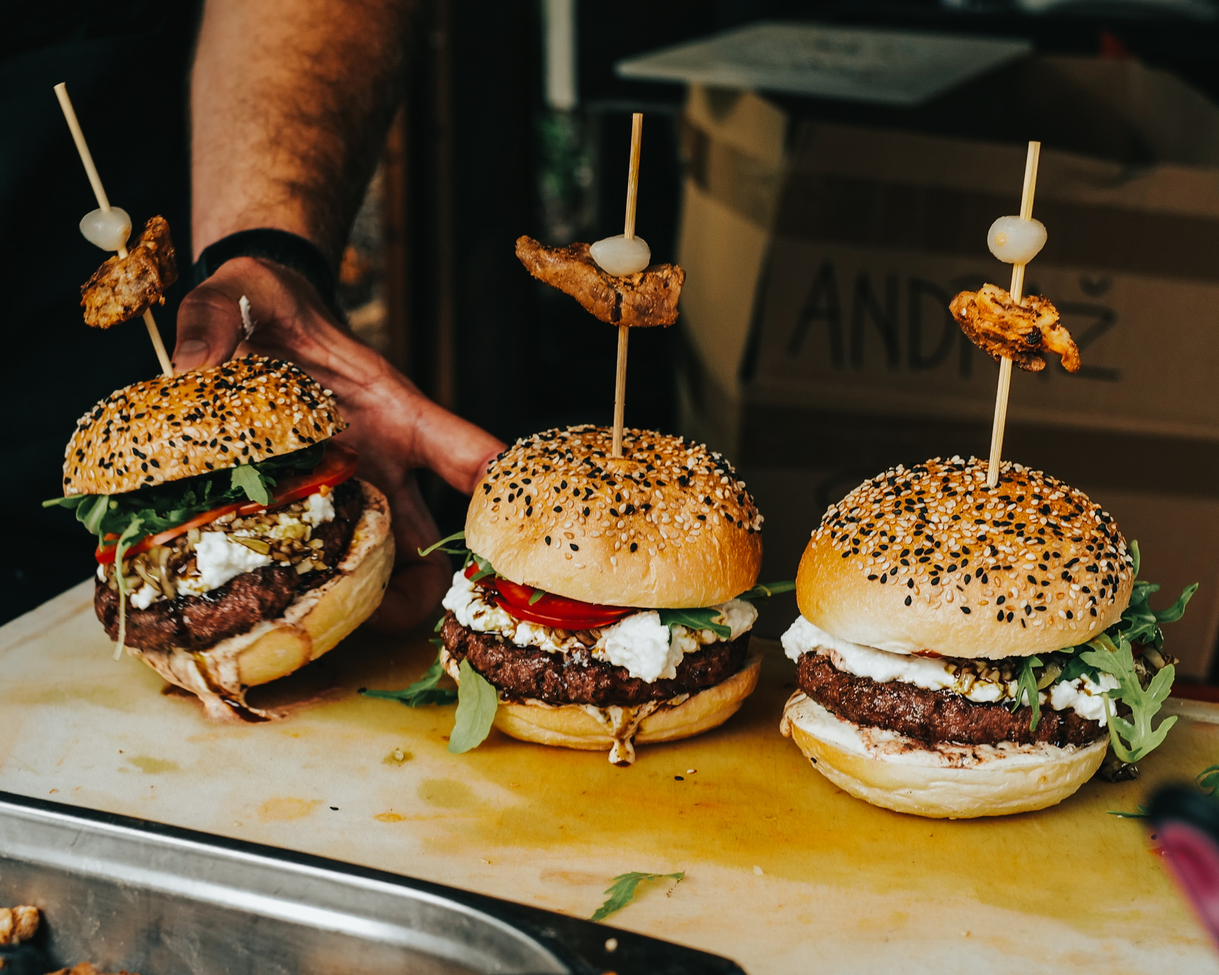
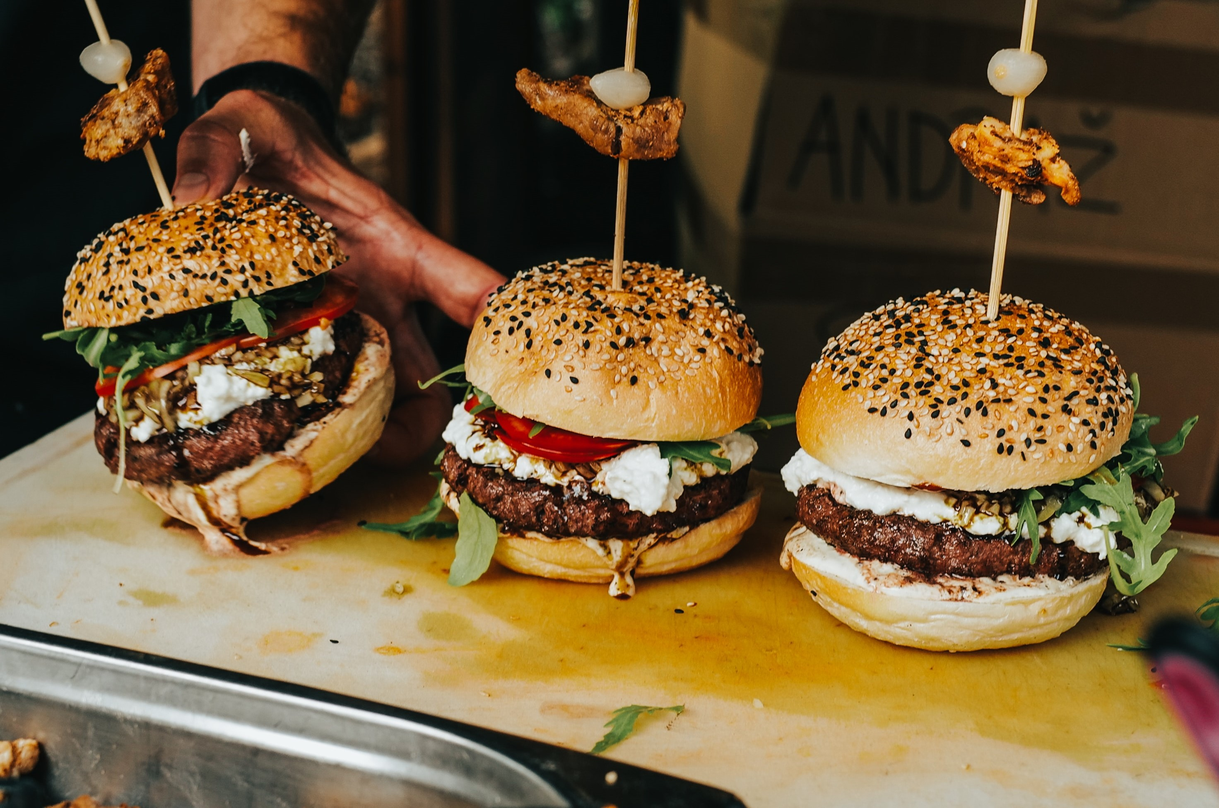
slider menu done

diff --git a/src/components/ImagesSlider/ImagesSlider.jsx b/src/components/ImagesSlider/ImagesSlider.jsx
@@ -1,0 +1,35 @@
+import React, { useEffect, useState } from 'react';
+import { motion, AnimatePresence } from "framer-motion";
+import './ImagesSlider.css';
+
+const ImagesSlider = ({ images }) => {
+  const [activeIndex, setActiveIndex] = useState(0);
+
+  useEffect(() => {
+    const intervalId = setInterval(() => {
+      // Move to the next image or loop back to the first image
+      setActiveIndex((prevIndex) => (prevIndex + 1) % images.length);
+    }, 5000); // Change image every 5 seconds
+
+    return () => clearInterval(intervalId); // Cleanup the interval on component unmount
+  }, [images]);
+
+  return (
+    <div className="carousel">
+      <AnimatePresence>
+        <motion.div
+          key={activeIndex}
+          initial={{ opacity: 0 }}
+          animate={{ opacity: 1}}
+          exit={{ opacity: 0}}
+          transition={{ duration: 0.8 }}
+          className="background-container"
+        >
+          <img src={images[activeIndex].url} alt="back-image" className='carousel-image'/>
+        </motion.div>
+      </AnimatePresence>
+    </div>
+  );
+};
+
+export default ImagesSlider;

diff --git a/src/pages/Menu/Menu.jsx b/src/pages/Menu/Menu.jsx
@@ -1,11 +1,21 @@
 import React from 'react'
+import { Box } from '@mui/material';
 import transition from '../../transition';
+import ImagesSlider from '../../components/ImagesSlider/ImagesSlider';
+import './Menu.css';
+import veg2 from '/images/veg2.jpg';
+import chicken1 from '/images/chicken1.jpg';
+import burger2 from '/images/burger2.jpg';
+
+const images = [{id: 0 , url: veg2},{id: 1 , url: chicken1},{id: 2 , url: burger2}]
 
 const Menu = () => {
   return (
     <div className='menu'>
       {/* SLIDER DE IMAGENES */}
-
+      <Box className='carousel-container'>
+        <ImagesSlider images={images}/>
+      </Box>
       {/*  MENU TITULO */}
 
       {/* SECCIONES DEL MENU ENTRANTE/HAMBURGESAS Y ENSALADAS/POSTRES */}

diff --git a/src/components/ImagesSlider/ImagesSlider.css b/src/components/ImagesSlider/ImagesSlider.css
@@ -1,0 +1,23 @@
+body {
+    margin: 0;
+    padding: 0;
+}
+
+.carousel {
+    height: 80vh;
+    width: 94%;
+    overflow: hidden;
+}
+
+.background-container {
+    position: absolute;
+    height: 80vh;
+    width: 100%;
+    overflow: hidden;
+}
+
+.carousel-image {
+    width: 100%;
+    height: 100%;
+    object-fit: cover;
+}

diff --git a/src/index.css b/src/index.css
@@ -1,4 +1,6 @@
-* {
+*,
+*:before,
+*:after {
     padding: 0;
     margin: 0;
     box-sizing: border-box;

diff --git a/src/pages/Menu/Menu.css b/src/pages/Menu/Menu.css
@@ -1,0 +1,4 @@
+.carousel-container {
+    width: 100%;
+    height: 70vh;
+}
